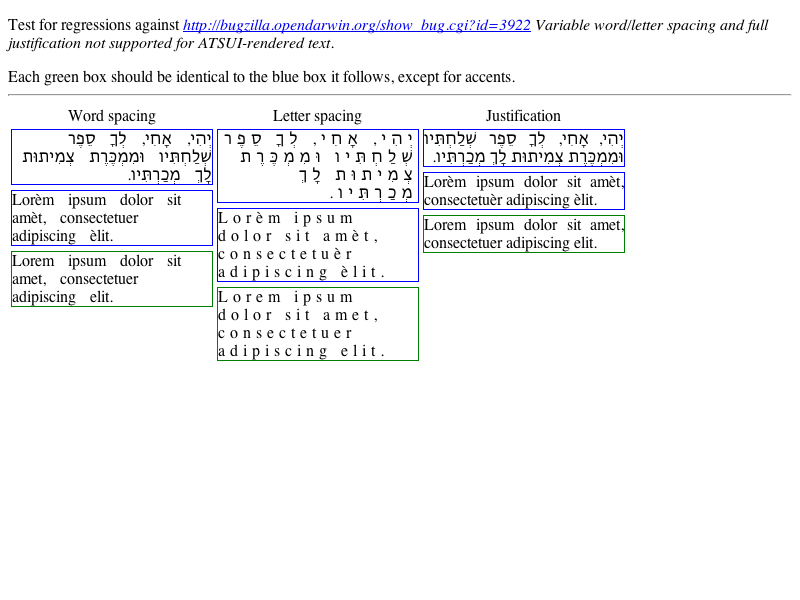
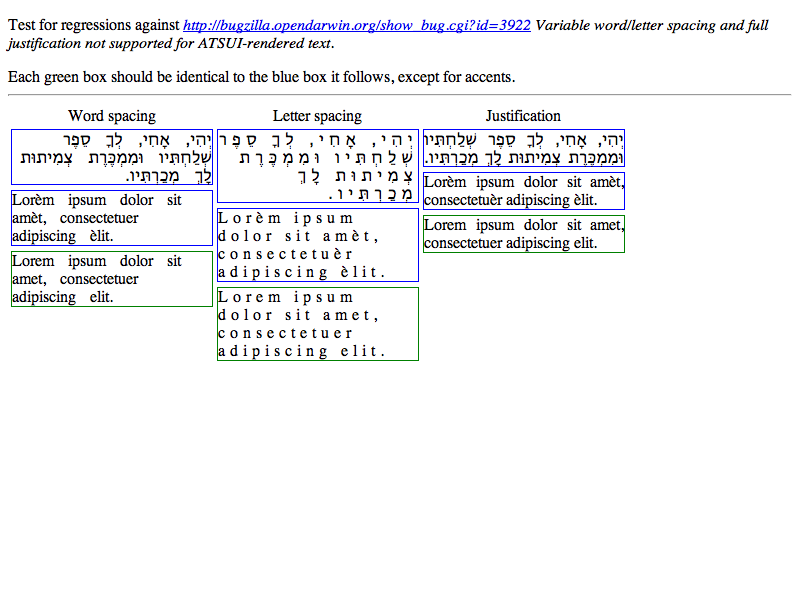
Reviewed by Sam Weinig and Anders Carlsson.
- change a test to simply use 'font-family' instead of unnecessary
          @font-face hackery

        * fast/text/atsui-spacing-features.html:
        * platform/mac/fast/text/atsui-spacing-features-expected.checksum:
        * platform/mac/fast/text/atsui-spacing-features-expected.png:
        * platform/mac/fast/text/atsui-spacing-features-expected.txt:

git-svn-id: http://svn.webkit.org/repository/webkit/trunk/LayoutTests@30134 268f45cc-cd09-0410-ab3c-d52691b4dbfc

diff --git a/fast/text/atsui-spacing-features.html b/fast/text/atsui-spacing-features.html
@@ -4,9 +4,8 @@
 <head>
 <title>ATSUI spacing features</title>
 <style type="text/css">
-@import url('international/resources/Mac-compatible-font-fallback.css');
 div.test { width: 200px; border: solid blue 1px; margin-bottom: 5px; }
-div.rtl { direction: rtl; }
+div.rtl { direction: rtl; font-family: 'Lucida Grande'; line-height: 18px; }
 div.ref { width: 200px; border: solid green 1px; }
 div.word { word-spacing: 10px; }
 div.letter { letter-spacing: 5px; }
